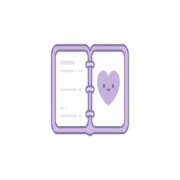
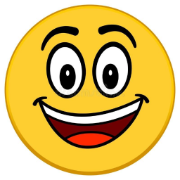
Add Hugging Face emotion model with Transformers.js

diff --git a/style.css b/style.css
@@ -2,7 +2,7 @@
 :root {
   font-size: 120%;
   color-scheme: light;
-  --navbar-height: 88px;
+  --navbar-height: 104px;
   --purple-950: #39245e;
   --purple-800: #5a3b87;
   --purple-700: #7352a3;
@@ -177,12 +177,13 @@ input:focus, textarea:focus { border-color: var(--purple-600); box-shadow: 0 0 0
 /* Centered login and sign-up card */
 .auth-page { display: grid; place-items: center; padding: 38px 20px; background: radial-gradient(ellipse at 50% 20%, #fff 0, #f8f5ff 55%, #f1eafb 100%); }
 .auth-shell { width: min(100%, 450px); }
-.brand { display: inline-flex; align-items: center; gap: 12px; color: var(--purple-950); font-size: 1.35rem; font-weight: 900; text-decoration: none; }
+.brand { display: inline-flex; align-items: center; gap: 12px; color: var(--purple-950); font-size: 1.35rem; font-weight: 900; text-decoration: none; transform-origin: left center; transition: transform 170ms ease; }
+.brand:hover, .brand:focus-visible { transform: scale(1.025); }
 .auth-brand { display: flex; justify-content: center; margin-bottom: 20px; font-size: 1.35rem; }
 .optional-auth-card { max-width: 540px; margin: 28px auto 0; }
 .optional-auth-card > .muted-copy { margin-bottom: 22px; }
 .brand-mark { position: relative; display: inline-grid; width: 36px; height: 36px; place-items: center; overflow: hidden; border-radius: 12px; background: var(--pink); font-size: 1.2rem; }
-.brand-logo { width: 44px; height: 44px; border-radius: 12px; object-fit: contain; }
+.brand-logo { display: block; width: auto; height: 64px; object-fit: contain; }
 .auth-card, .surface-card { border: 1px solid rgba(232, 222, 247, 0.8); border-radius: var(--radius-large); background: var(--white); box-shadow: var(--shadow); }
 .auth-card { padding: clamp(24px, 7vw, 38px); text-align: center; }
 .auth-card .muted-copy { margin-bottom: 24px; }
@@ -362,6 +363,16 @@ input:focus, textarea:focus { border-color: var(--purple-600); box-shadow: 0 0 0
 }
 .composer-footer { display: flex; align-items: center; justify-content: space-between; gap: 16px; margin-top: 20px; }
 .helper-copy { color: #5e536d; font-size: 0.94rem; }
+
+/* Keep model warmup and fallback feedback readable just beneath the composer. */
+.ai-status {
+  margin: 12px auto 0;
+  color: #51465f;
+  font-size: 0.92rem;
+  font-weight: 700;
+  text-align: center;
+}
+.analysis-fallback-note { color: #625276; font-size: 0.86rem; }
 @property --mood-start {
   syntax: "<color>";
   inherits: false;
@@ -514,11 +525,11 @@ input:focus, textarea:focus { border-color: var(--purple-600); box-shadow: 0 0 0
 
 /* Small-screen layout adjustments */
 @media (max-width: 600px) {
-  :root { --navbar-height: 80px; }
+  :root { --navbar-height: 88px; }
   .page-width { width: min(100% - 32px, 1060px); }
   .navbar { min-height: var(--navbar-height); }
   .navbar { gap: 10px; }
-  .brand { gap: 7px; font-size: 1.1rem; }
+  .brand { gap: 12px; font-size: 1.1rem; }
   .menu-toggle { display: inline-flex; }
   .nav-links { position: absolute; top: calc(100% + 8px); right: 0; left: 0; display: none; height: auto; align-items: stretch; flex-direction: column; gap: 12px; padding: 16px; border: 1px solid var(--purple-200); border-radius: 16px; background: var(--white); box-shadow: var(--shadow); }
   .nav-links.is-open { display: flex; }
@@ -529,6 +540,7 @@ input:focus, textarea:focus { border-color: var(--purple-600); box-shadow: 0 0 0
   .nav-account-actions { display: flex; flex-direction: column; gap: 12px; }
   .nav-account-actions .nav-link { width: 100%; }
   .nav-link { font-size: 0.9rem; }
+  .brand-logo { height: 48px; }
   .button-small { min-height: 44px; padding: 8px 12px; font-size: 0.9rem; }
   .emoji-rain-toggle { top: calc(var(--navbar-height) + 10px); right: 12px; width: 44px; height: 44px; }
   .arriving-mood-options { justify-content: space-between; gap: 6px; }
@@ -554,8 +566,10 @@ input:focus, textarea:focus { border-color: var(--purple-600); box-shadow: 0 0 0
 
 @media (max-width: 360px) {
   .navbar { gap: 6px; }
-  .brand { gap: 6px; font-size: 1rem; }
+  .brand { gap: 10px; font-size: 1rem; }
   .menu-toggle { gap: 6px; padding-inline: 10px; }
+  /* Keep the mobile menu compact while its full label remains screen-reader accessible. */
+  .menu-toggle-label { position: absolute; width: 1px; height: 1px; overflow: hidden; clip: rect(0, 0, 0, 0); white-space: nowrap; clip-path: inset(50%); }
 }
 
 @media (prefers-reduced-motion: reduce) {

diff --git a/app.js b/app.js
@@ -1,3 +1,5 @@
+import { detectEmotion, loadEmotionModel } from "./huggingface.js";
+
 // Preview journal entries are kept in this file until storage is connected.
 const exampleEntries = [
   { date: "Today · 9:15 AM", text: "I got outside for a little walk and the sunshine felt so good.", mood: "😊" },
@@ -121,6 +123,8 @@ const journalText = document.querySelector("#journal-text");
 const journalMessage = document.querySelector("#journal-message");
 const topicInputs = document.querySelectorAll(".topic-input");
 const reflectionQuestion = document.querySelector("#reflection-question");
+const aiStatus = document.querySelector("#ai-status");
+const fallbackNote = document.querySelector("#analysis-fallback-note");
 
 // Keep one optional arrival rating selected for this journal page.
 let arrivingMood = null;
@@ -143,8 +147,8 @@ document.querySelectorAll(".topic-row").forEach((row) => {
   });
 });
 
-// TEMPORARY - replace with Hugging Face emotion model later
-async function analyzeMood(text) {
+// Keep local keyword matching available when the browser model cannot be used.
+function keywordFallback(text) {
   const normalizedText = text.toLowerCase();
   const keywordsByMood = {
     joy: ["happy", "great", "good", "excited", "love", "amazing", "glad", "proud", "fun"],
@@ -164,6 +168,52 @@ async function analyzeMood(text) {
   return "neutral";
 }
 
+let usedKeywordFallback = false;
+
+// Give the browser model up to 90 seconds before using the local keyword helper.
+async function analyzeMood(text) {
+  usedKeywordFallback = false;
+  let timeoutId;
+
+  try {
+    const detected = await Promise.race([
+      detectEmotion(text),
+      new Promise((_, reject) => {
+        timeoutId = window.setTimeout(
+          () => reject(new Error("Emotion model analysis timed out after 90 seconds.")),
+          90000
+        );
+      })
+    ]);
+
+    if (!detected || !Object.prototype.hasOwnProperty.call(moodDetails, detected.label)) {
+      throw new Error("Emotion model returned an unsupported mood label.");
+    }
+
+    return detected.label;
+  } catch (error) {
+    console.error("[MoodJournal] Emotion model analysis failed; using keyword helper.", error);
+    usedKeywordFallback = true;
+    return keywordFallback(text);
+  } finally {
+    window.clearTimeout(timeoutId);
+  }
+}
+
+// Warm the cached model on page open so the first analysis can begin sooner.
+async function warmEmotionModel() {
+  aiStatus.hidden = false;
+  try {
+    await loadEmotionModel();
+    aiStatus.hidden = true;
+  } catch (error) {
+    console.error("[MoodJournal] Failed to load the emotion model in the background.", error);
+    aiStatus.textContent = "The AI could not load. You can still use the keyword helper.";
+  }
+}
+
+void warmEmotionModel();
+
 // Validate the combined card text, preserve the loading state, and render its mood result.
 analyzeButton.addEventListener("click", async () => {
   // Combine every written part of the page without adding empty fields.
@@ -182,6 +232,7 @@ analyzeButton.addEventListener("click", async () => {
 
   journalMessage.textContent = "";
   journalMessage.hidden = true;
+  fallbackNote.hidden = true;
   analyzeButton.disabled = true;
   analyzeButtonLabel.textContent = "Analyzing... ✨";
   analyzeButtonIcon.hidden = true;
@@ -190,7 +241,13 @@ analyzeButton.addEventListener("click", async () => {
     const mood = await analyzeMood(entry);
     await new Promise((resolve) => window.setTimeout(resolve, 1000));
     showMood(mood);
+    fallbackNote.hidden = !usedKeywordFallback;
+    aiStatus.hidden = true;
     moodResult.scrollIntoView({ behavior: "smooth", block: "nearest" });
+  } catch (error) {
+    console.error("[MoodJournal] Could not display the mood analysis result.", error);
+    journalMessage.textContent = "Something went wrong while showing your result. Please try again.";
+    journalMessage.hidden = false;
   } finally {
     analyzeButton.disabled = false;
     analyzeButtonLabel.textContent = "Analyze my mood";

diff --git a/huggingface.js b/huggingface.js
@@ -1,0 +1,64 @@
+// Load Transformers.js from the pinned CDN build and reuse one classifier pipeline.
+const TRANSFORMERS_MODULE_URL = "https://cdn.jsdelivr.net/npm/@xenova/transformers@2.17.2";
+const MODEL_NAME = "MicahB/emotion_text_classifier";
+const EMOTION_LABELS = ["anger", "disgust", "fear", "joy", "neutral", "sadness", "surprise"];
+
+let emotionPipelinePromise;
+
+async function getEmotionPipeline() {
+  if (!emotionPipelinePromise) {
+    emotionPipelinePromise = import(TRANSFORMERS_MODULE_URL)
+      .then(({ pipeline, env }) => {
+        // Use the public model repository instead of looking for a local models folder.
+        env.allowLocalModels = false;
+        return pipeline("text-classification", MODEL_NAME);
+      })
+      .catch((error) => {
+        emotionPipelinePromise = undefined;
+        throw error;
+      });
+  }
+
+  return emotionPipelinePromise;
+}
+
+// Expose model warmup separately so the journal can start downloading in the background.
+export async function loadEmotionModel() {
+  await getEmotionPipeline();
+}
+
+// Return the highest-scoring mood together with scores for every supported label.
+export async function detectEmotion(text) {
+  try {
+    const cleanedText = typeof text === "string" ? text.trim() : "";
+    if (!cleanedText) {
+      throw new TypeError("Emotion detection requires non-empty text.");
+    }
+
+    const classifier = await getEmotionPipeline();
+    const output = await classifier(cleanedText, { topk: null });
+    const predictions = Array.isArray(output) ? output.flat(Infinity) : [output];
+    const scores = Object.fromEntries(EMOTION_LABELS.map((label) => [label, null]));
+
+    for (const prediction of predictions) {
+      const label = typeof prediction.label === "string" ? prediction.label.toLowerCase() : "";
+      const score = Number(prediction.score);
+      if (Object.prototype.hasOwnProperty.call(scores, label) && Number.isFinite(score)) {
+        scores[label] = score;
+      }
+    }
+
+    const missingLabels = EMOTION_LABELS.filter((label) => scores[label] === null);
+    if (missingLabels.length > 0) {
+      throw new Error(`Emotion model omitted scores for: ${missingLabels.join(", ")}.`);
+    }
+
+    const label = EMOTION_LABELS.reduce((highest, current) =>
+      scores[current] > scores[highest] ? current : highest
+    );
+    return { label, scores };
+  } catch (error) {
+    console.error("[MoodJournal] Hugging Face emotion detection failed.", error);
+    throw error;
+  }
+}

diff --git a/navbar.js b/navbar.js
@@ -19,9 +19,9 @@ function renderNavbar() {
         <img class="brand-logo" src="assets/logo.png" alt="MoodJournal logo">
         <span>MoodJournal</span>
       </a>
-      <button class="menu-toggle" id="menu-toggle" type="button" aria-expanded="false" aria-controls="main-menu">
+      <button class="menu-toggle" id="menu-toggle" type="button" aria-label="Open navigation menu" aria-expanded="false" aria-controls="main-menu">
         <span class="menu-toggle-label">Menu</span>
-        <span aria-hidden="true">☰</span>
+        <span class="menu-toggle-icon" aria-hidden="true">☰</span>
       </button>
       <div class="nav-links" id="main-menu">
         <a class="nav-link nav-tab nav-tab-journal${journalCurrent ? " is-current" : ""}" href="app.html"${journalCurrent ? ' aria-current="page"' : ""}>Journal</a>
@@ -31,6 +31,13 @@ function renderNavbar() {
     </nav>
   `;
 
+  // Remove the logo element on failure, and handle an error that finished before binding.
+  const brandLogo = navbarHost.querySelector(".brand-logo");
+  brandLogo.addEventListener("error", () => brandLogo.remove(), { once: true });
+  if (brandLogo.complete && !brandLogo.naturalWidth) {
+    brandLogo.remove();
+  }
+
   const menuToggle = document.querySelector("#menu-toggle");
   const navLinks = document.querySelector("#main-menu");
   menuToggle.addEventListener("click", () => {
@@ -38,6 +45,8 @@ function renderNavbar() {
     navLinks.classList.toggle("is-open", menuIsOpen);
     menuToggle.setAttribute("aria-expanded", String(menuIsOpen));
     menuToggle.querySelector(".menu-toggle-label").textContent = menuIsOpen ? "Close" : "Menu";
+    menuToggle.setAttribute("aria-label", menuIsOpen ? "Close navigation menu" : "Open navigation menu");
+    menuToggle.querySelector(".menu-toggle-icon").textContent = menuIsOpen ? "×" : "☰";
   });
 
   const logoutButton = document.querySelector("#nav-logout");
@@ -162,6 +171,8 @@ document.addEventListener("click", (event) => {
   navLinks.classList.remove("is-open");
   menuToggle.setAttribute("aria-expanded", "false");
   menuToggle.querySelector(".menu-toggle-label").textContent = "Menu";
+  menuToggle.setAttribute("aria-label", "Open navigation menu");
+  menuToggle.querySelector(".menu-toggle-icon").textContent = "☰";
   openAuthModal(authButton.dataset.openAuth);
 });
 loginTab.addEventListener("click", () => showAuthPanel("login"));

diff --git a/app.html b/app.html
@@ -16,7 +16,7 @@
   <link href="https://fonts.googleapis.com/css2?family=Nunito:wght@400;500;600;700;800&display=swap" rel="stylesheet">
   <link rel="stylesheet" href="style.css">
   <script src="navbar.js" defer></script>
-  <script src="app.js" defer></script>
+  <script type="module" src="app.js"></script>
   <script src="month.js" defer></script>
   <script src="effects.js" defer></script>
 </head>
@@ -94,6 +94,10 @@
         </button>
       </div>
     </section>
+
+    <!-- Background model loading and keyword-fallback status appear below the entry card. -->
+    <p class="ai-status" id="ai-status" role="status" aria-live="polite">Waking up the AI, the first time can take a moment 💜</p>
+    <p class="ai-status analysis-fallback-note" id="analysis-fallback-note" role="status" aria-live="polite" hidden>Analyzed with the keyword helper</p>
 
     <!-- Mood result updates to a supportive, mood-specific color and message -->
     <section class="result-card surface-card" id="mood-result" data-mood="neutral" aria-live="polite" hidden>

diff --git a/README.md b/README.md
@@ -213,3 +213,18 @@ Add comments in the code explaining each part.
 
 
 ----------------
+ HUGGING FACE 
+
+ Update app.js (and app.html if needed) in the MoodJournal project. Do NOT add Firebase yet.
+
+Connect the "Analyze my mood" button to a Hugging Face emotion model that runs directly in the browser using Transformers.js. No token, API key or server must be used anywhere.
+
+Model: MicahB/emotion_text_classifier (labels: anger, disgust, fear, joy, neutral, sadness, surprise).
+
+Requirements:
+1. Create a separate file huggingface.js (ES module) with an async function detectEmotion(text). Load the library from jsDelivr using @xenova/transformers@2.17.2, create the pipeline('text-classification', 'MicahB/emotion_text_classifier') only once and reuse it, and return the label with the highest score in lowercase plus the scores of all 7 labels.
+2. Update analyzeMood(text) so it first calls detectEmotion(text). If it fails or takes longer than 90 seconds, use the existing keyword logic as a fallback (keep it as a function called keywordFallback).
+3. The first time, the model downloads. Show the message "Waking up the AI, the first time can take a moment 💜" under the card, and start loading the model in the background when app.html opens.
+4. If the fallback was used, show a small note: "Analyzed with the keyword helper".
+5. Keep showMood(moodName), the gradients, the emoji animation and the month tracker working as before.
+6. Add try/catch with console.error messages and comments explaining each part.
